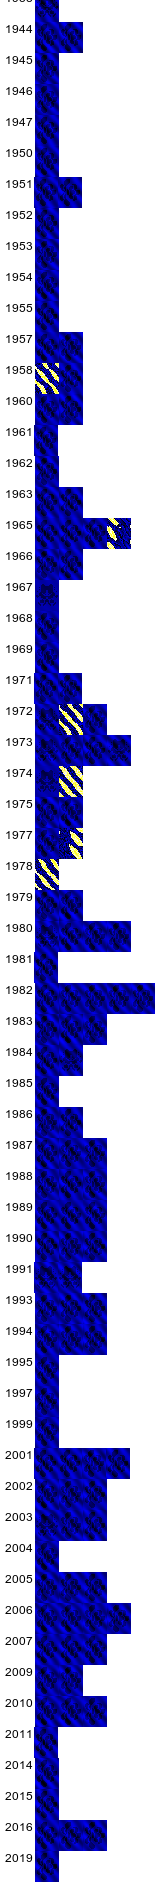
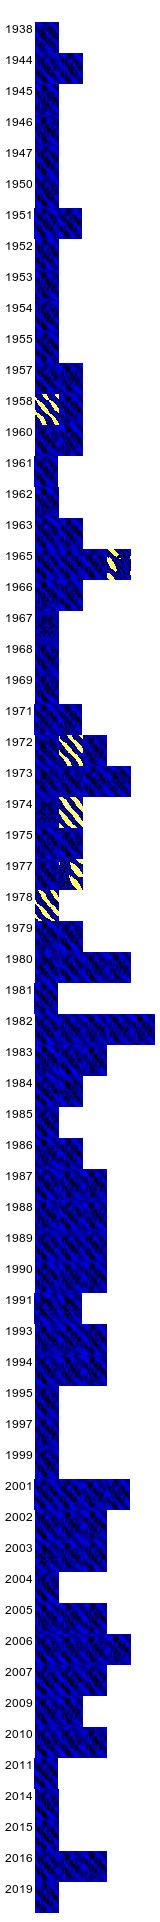
Fix truncated top of the histogram image

diff --git a/PostWorkshopAnalysis.md b/PostWorkshopAnalysis.md
@@ -72,7 +72,7 @@ Generate a histogram of the number of patterns generated each year, by grouping 
 
  1. Create a montage of all the histogram-year.png images generated in the previous step.  `-tile 1x` puts them into a single column.  `-geometry '1x1+5-9<'` gives a 5 pixel border left and right, and removes the 9 pixels of padding the previous montage generates.
 
-    `montage histogram-*.png -mode Concatenate -tile 1x -geometry '1x1+5-9<' years-histogram.png`
+    `montage null: histogram-*.png -mode Concatenate -tile 1x -geometry '1x1+5-9<' years-histogram.png`
 
  1. Remove the intermediate image files (optional)
 
